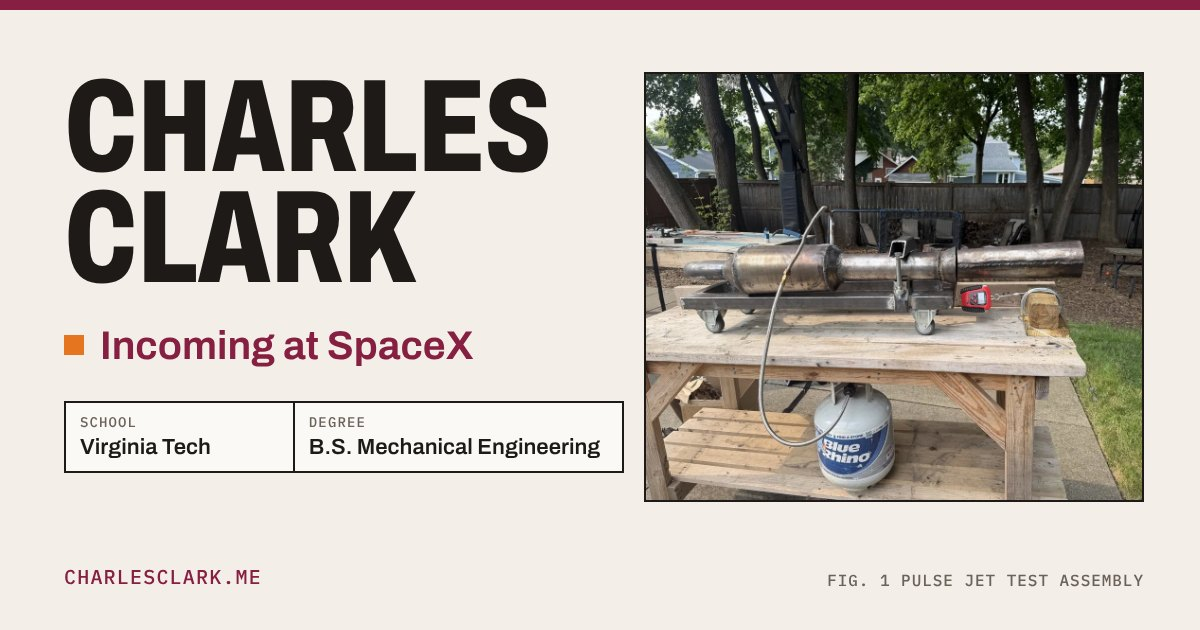
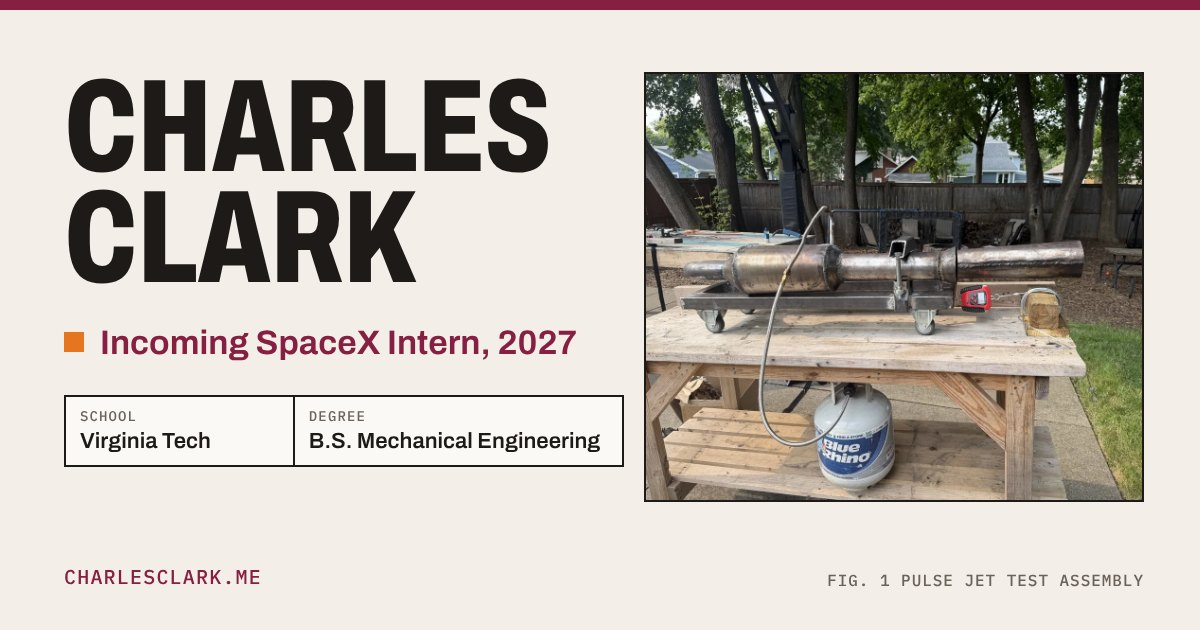
content and links: SpaceX intern 2027, December 2028, clickable cards, contact tiles
- Status line: "Incoming SpaceX Intern, 2027". Expected graduation:
  December 2028. Titles, descriptions, social tags, README and the
  link-preview image updated to match.
- Project cards and experience entries are clickable anywhere. A full-size
  link layer sits outside the animated elements (their transforms had
  trapped the old stretched link inside the title). The heading link stays
  the one keyboards and screen readers use; the layer is tabindex -1 and
  aria-hidden. The crutch card's pause button still works.
- Contact section: one tile per channel (email, LinkedIn, GitHub, resume)
  with its icon, label and handle; the whole tile is the link.

Claude-Session: https://claude.ai/code/session_017oWsxZTd1itfne42AzwVPo

Changed region(s): [[0.0617, 0.5127, 0.5242, 0.754]]

diff --git a/src/styles.css b/src/styles.css
@@ -767,11 +767,12 @@ a {
   text-decoration: none;
 }
 
-.sheet-link::after {
+/* Full-size link layer over a card. It sits outside the animated elements, whose transforms would
+   otherwise trap a stretched link inside them. */
+.card-cover {
   position: absolute;
   inset: 0;
   z-index: 1;
-  content: "";
 }
 
 .sheet-link:focus-visible {
@@ -1079,8 +1080,13 @@ a {
   text-underline-offset: 5px;
 }
 
-.experience-body h3 a:hover {
+.experience-body h3 a:hover,
+.experience-item:hover h3 a {
   text-decoration-color: var(--color-orange);
+}
+
+.experience-item:has(.card-cover:hover) .experience-node {
+  border-color: var(--color-orange);
 }
 
 .experience-project {
@@ -1275,52 +1281,79 @@ a {
   color: #fff;
 }
 
-.contact-list > div {
-  position: relative;
+/* Contact: one tile per channel with its icon; the whole tile is the link. */
+.contact-links {
+  display: grid;
+  gap: 12px;
+}
+
+.contact-link {
+  display: grid;
+  grid-template-columns: auto minmax(0, 1fr) auto;
+  align-items: center;
+  gap: 16px;
+  min-height: 76px;
+  padding: 14px 18px 14px 14px;
+  border: 1.5px solid rgb(255 255 255 / 0.5);
+  color: #fff;
+  text-decoration: none;
+}
+
+.contact-icon {
+  display: grid;
+  place-items: center;
+  width: 46px;
+  height: 46px;
+  background: #fff;
+  color: var(--color-maroon);
+}
+
+.contact-text {
   display: grid;
   gap: 2px;
-  padding: 14px 0;
+  min-width: 0;
 }
 
-.contact-rule {
-  position: absolute;
-  top: 0;
-  right: 0;
-  left: 0;
-  height: 1px;
-  background: rgb(255 255 255 / 0.35);
-  transform-origin: 0 50%;
-}
-
-.contact-list > div:last-child {
-  border-bottom: 1px solid rgb(255 255 255 / 0.35);
-}
-
-.contact-list dt {
+.contact-text small {
   color: rgb(255 255 255 / 0.78);
-  font: 500 0.75rem/1.5 var(--font-mono);
+  font: 500 0.75rem/1.3 var(--font-mono);
   letter-spacing: 0.06em;
   text-transform: uppercase;
 }
 
-.contact-list a {
-  font-size: clamp(1.125rem, 2.4vw, 1.5rem);
+.contact-text span {
+  font-size: clamp(1.0625rem, 2vw, 1.25rem);
   font-weight: 600;
+  line-height: 1.3;
   overflow-wrap: anywhere;
-  text-decoration: underline;
-  text-decoration-color: var(--color-orange);
-  text-decoration-thickness: 2px;
-  text-underline-offset: 5px;
 }
 
-.contact-list a:hover {
-  text-decoration-color: #fff;
+.contact-action {
+  color: var(--color-orange);
+}
+
+.contact-link:hover {
+  border-color: #fff;
+  background: #fff;
+  color: var(--color-maroon);
+}
+
+.contact-link:hover .contact-icon {
+  background: var(--color-maroon);
+  color: #fff;
+}
+
+.contact-link:hover small {
+  color: var(--color-ink-soft);
+}
+
+.contact-link:hover .contact-action {
+  color: var(--color-maroon);
 }
 
 @media (min-width: 640px) {
-  .contact-list > div {
-    grid-template-columns: 7.5rem minmax(0, 1fr);
-    align-items: baseline;
+  .contact-links {
+    grid-template-columns: repeat(2, minmax(0, 1fr));
   }
 }
 
@@ -2229,9 +2262,7 @@ a {
   .skill-group .skill-rule { --d: calc(70ms + var(--g, 0) * 95ms); }
   .skill-group li { --d: calc(170ms + var(--g, 0) * 95ms); --step: 55ms; }
 
-  .contact-list > div { --step: 85ms; }
-  .contact-list dt { --d: 70ms; }
-  .contact-list dd { --d: 110ms; }
+  .contact-links li { --d: 60ms; --step: 85ms; }
 
   .writeup h2 { --d: 70ms; }
   .writeup p { --d: 130ms; --step: 70ms; }
@@ -2281,6 +2312,8 @@ a {
   .menu-button,
   .sheet,
   .pager-link,
+  .contact-link,
+  .contact-icon,
   .media-toggle,
   .figure-zoom-hint {
     transition:

diff --git a/index.html b/index.html
@@ -7,21 +7,21 @@
     <meta name="color-scheme" content="light" />
     <link rel="icon" type="image/png" sizes="64x64" href="/icon-64.png" />
     <link rel="apple-touch-icon" href="/apple-touch-icon.png" />
-    <title>Charles Clark | Mechanical Engineering | Incoming at SpaceX</title>
-    <meta name="description" content="Charles T. Clark, Virginia Tech mechanical engineering student (B.S. expected May 2028), incoming at SpaceX. Projects: a propane pulse jet, product design at Culligan, two Jeep restorations and a telescoping crutch." />
+    <title>Charles Clark | Mechanical Engineering | Incoming SpaceX Intern 2027</title>
+    <meta name="description" content="Charles T. Clark, Virginia Tech mechanical engineering student (B.S. expected December 2028), incoming SpaceX intern for 2027. Projects: a propane pulse jet, product design at Culligan, two Jeep restorations and a telescoping crutch." />
     <link rel="canonical" href="https://charlesclark.me/" />
     <meta property="og:type" content="website" />
     <meta property="og:site_name" content="Charles T. Clark" />
-    <meta property="og:title" content="Charles Clark | Mechanical Engineering | Incoming at SpaceX" />
-    <meta property="og:description" content="Charles T. Clark, Virginia Tech mechanical engineering student (B.S. expected May 2028), incoming at SpaceX. Projects: a propane pulse jet, product design at Culligan, two Jeep restorations and a telescoping crutch." />
+    <meta property="og:title" content="Charles Clark | Mechanical Engineering | Incoming SpaceX Intern 2027" />
+    <meta property="og:description" content="Charles T. Clark, Virginia Tech mechanical engineering student (B.S. expected December 2028), incoming SpaceX intern for 2027. Projects: a propane pulse jet, product design at Culligan, two Jeep restorations and a telescoping crutch." />
     <meta property="og:url" content="https://charlesclark.me/" />
     <meta property="og:image" content="https://charlesclark.me/og-image.jpg" />
     <meta property="og:image:width" content="1200" />
     <meta property="og:image:height" content="630" />
-    <meta property="og:image:alt" content="Charles T. Clark, Mechanical Engineering, Virginia Tech, Incoming at SpaceX" />
+    <meta property="og:image:alt" content="Charles T. Clark, Mechanical Engineering, Virginia Tech, Incoming SpaceX Intern 2027" />
     <meta name="twitter:card" content="summary_large_image" />
-    <meta name="twitter:title" content="Charles Clark | Mechanical Engineering | Incoming at SpaceX" />
-    <meta name="twitter:description" content="Charles T. Clark, Virginia Tech mechanical engineering student (B.S. expected May 2028), incoming at SpaceX. Projects: a propane pulse jet, product design at Culligan, two Jeep restorations and a telescoping crutch." />
+    <meta name="twitter:title" content="Charles Clark | Mechanical Engineering | Incoming SpaceX Intern 2027" />
+    <meta name="twitter:description" content="Charles T. Clark, Virginia Tech mechanical engineering student (B.S. expected December 2028), incoming SpaceX intern for 2027. Projects: a propane pulse jet, product design at Culligan, two Jeep restorations and a telescoping crutch." />
     <meta name="twitter:image" content="https://charlesclark.me/og-image.jpg" />
     <script type="application/ld+json">
       {

diff --git a/src/pages/HomePage.tsx b/src/pages/HomePage.tsx
@@ -1,4 +1,4 @@
-import { ArrowDown, ArrowUpRight, FileText, Linkedin, Mail } from "lucide-react";
+import { ArrowDown, ArrowUpRight, Download, FileText, Github, Linkedin, Mail } from "lucide-react";
 import { useEffect, type CSSProperties } from "react";
 import { Link } from "react-router-dom";
 import { BlockReveal } from "../components/BlockReveal";
@@ -13,11 +13,11 @@ import { applyMeta } from "../lib/applyMeta";
 
 const order = (index: number) => ({ "--i": index }) as CSSProperties;
 
-const contactRows = [
-  { label: "Email", href: `mailto:${profile.email}`, text: profile.email, external: false },
-  { label: "LinkedIn", href: profile.linkedIn, text: profile.linkedInLabel, external: true },
-  { label: "GitHub", href: profile.github, text: profile.githubLabel, external: true },
-  { label: "Resume", href: profile.resume, text: "Charles-Clark-Resume.pdf", external: true },
+const contactLinks = [
+  { label: "Email", href: `mailto:${profile.email}`, text: profile.email, icon: Mail, action: ArrowUpRight, external: false },
+  { label: "LinkedIn", href: profile.linkedIn, text: "charlesclarkvt", icon: Linkedin, action: ArrowUpRight, external: true },
+  { label: "GitHub", href: profile.github, text: "Cclark5132", icon: Github, action: ArrowUpRight, external: true },
+  { label: "Resume", href: profile.resume, text: "Open PDF", icon: FileText, action: Download, external: true },
 ];
 
 const heroFacts = [
@@ -189,19 +189,22 @@ export function HomePage() {
               <BuildText text="Contact" />
             </h2>
           </div>
-          <dl className="contact-list" data-reveal="rows">
-            {contactRows.map((row, index) => (
-              <div style={order(index)} key={row.label}>
-                <span className="contact-rule r-draw" aria-hidden="true" />
-                <dt className="r-fade">{row.label}</dt>
-                <dd className="r-fade">
-                  <a href={row.href} {...(row.external ? { target: "_blank", rel: "noopener" } : {})}>
-                    {row.text}
-                  </a>
-                </dd>
-              </div>
+          <ul className="contact-links" data-reveal="rows">
+            {contactLinks.map(({ label, href, text, icon: Icon, action: Action, external }, index) => (
+              <li className="r-block" style={order(index)} key={label}>
+                <a className="contact-link" href={href} {...(external ? { target: "_blank", rel: "noopener" } : {})}>
+                  <span className="contact-icon" aria-hidden="true">
+                    <Icon size={22} />
+                  </span>
+                  <span className="contact-text">
+                    <small>{label}</small>
+                    <span>{text}</span>
+                  </span>
+                  <Action className="contact-action" size={20} aria-hidden="true" />
+                </a>
+              </li>
             ))}
-          </dl>
+          </ul>
         </div>
       </section>
     </main>

diff --git a/src/data/meta.ts b/src/data/meta.ts
@@ -10,9 +10,9 @@ export interface PageMeta {
 
 /** Shared by the build-time prerenderer and the client so every page's tags match. */
 export const homeMeta: PageMeta = {
-  title: "Charles Clark | Mechanical Engineering | Incoming at SpaceX",
+  title: "Charles Clark | Mechanical Engineering | Incoming SpaceX Intern 2027",
   description:
-    "Charles T. Clark, Virginia Tech mechanical engineering student (B.S. expected May 2028), incoming at SpaceX. Projects: a propane pulse jet, product design at Culligan, two Jeep restorations and a telescoping crutch.",
+    "Charles T. Clark, Virginia Tech mechanical engineering student (B.S. expected December 2028), incoming SpaceX intern for 2027. Projects: a propane pulse jet, product design at Culligan, two Jeep restorations and a telescoping crutch.",
   url: `${SITE_URL}/`,
 };
 

diff --git a/src/data/portfolio.ts b/src/data/portfolio.ts
@@ -123,10 +123,10 @@ const crutchAnimation: MediaItem = {
 export const profile = {
   name: "Charles T. Clark",
   shortName: "Charles Clark",
-  status: "Incoming at SpaceX",
+  status: "Incoming SpaceX Intern, 2027",
   school: "Virginia Tech",
   degree: "B.S. Mechanical Engineering",
-  graduation: "May 2028",
+  graduation: "Dec 2028",
   gpa: "3.84",
   location: "Chicago, IL",
   email: "charlesclark@vt.edu",
@@ -499,7 +499,7 @@ export const experiences: Experience[] = [
 export const education = {
   school: "Virginia Tech",
   degree: "B.S. Mechanical Engineering",
-  graduation: "Expected May 2028",
+  graduation: "Expected December 2028",
   gpa: "3.84",
   honors: [
     "Dean's List every semester",

diff --git a/src/components/ExperienceTimeline.tsx b/src/components/ExperienceTimeline.tsx
@@ -71,6 +71,8 @@ export function ExperienceTimeline() {
           const index = projects.findIndex((project) => project.slug === item.projectSlug);
           return (
             <li className="experience-item" key={item.org} data-reveal="entry">
+              {/* Makes the whole entry clickable; the heading link is the one keyboards and screen readers use. */}
+              <Link className="card-cover" to={`/projects/${item.projectSlug}`} tabIndex={-1} aria-hidden="true" />
               <span className="experience-rule r-draw" aria-hidden="true" />
               <span className="experience-node" aria-hidden="true" />
               <p className="experience-when r-fade">

diff --git a/src/components/ProjectSheet.tsx b/src/components/ProjectSheet.tsx
@@ -25,6 +25,8 @@ export function ProjectSheet({ project, index, total }: ProjectSheetProps) {
 
   return (
     <article className="sheet" style={{ "--stack": index } as CSSProperties} aria-labelledby={`sheet-${project.slug}`} data-reveal="sheet">
+      {/* Makes the whole card clickable. The title link below is the one keyboards and screen readers use. */}
+      <Link className="card-cover" to={`/projects/${project.slug}`} tabIndex={-1} aria-hidden="true" />
       <header className="sheet-strip">
         <span className="sheet-number r-block">
           <span className="sr-only">Project </span>

diff --git a/README.md b/README.md
@@ -1,6 +1,6 @@
 # Charles T. Clark Engineering Portfolio
 
-Portfolio site for Charles T. Clark: Virginia Tech, B.S. Mechanical Engineering (expected May 2028), incoming at SpaceX.
+Portfolio site for Charles T. Clark: Virginia Tech, B.S. Mechanical Engineering (expected December 2028), incoming SpaceX intern for 2027.
 
 Live site: [charlesclark.me](https://charlesclark.me)
 
